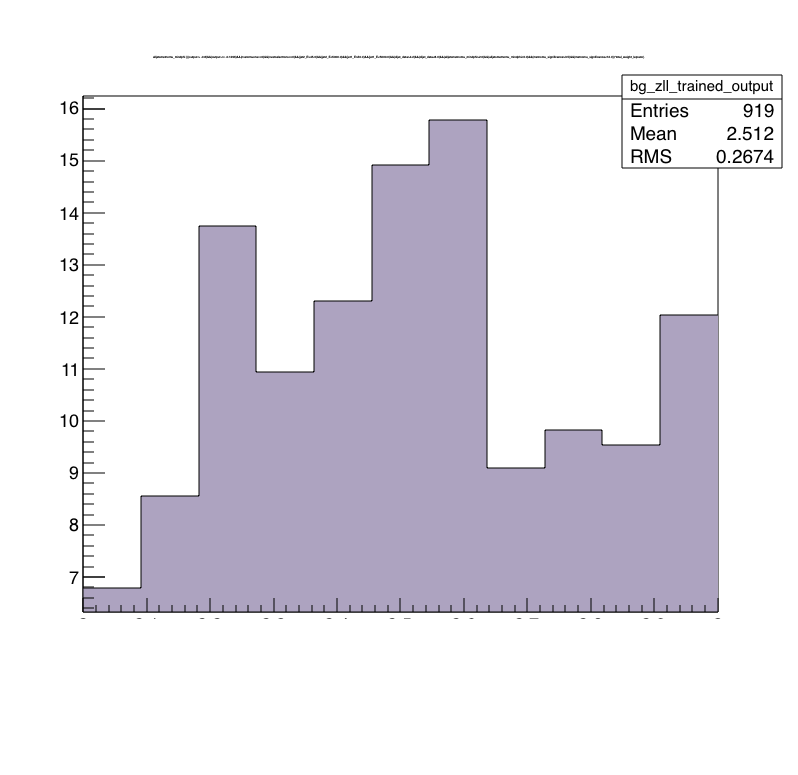
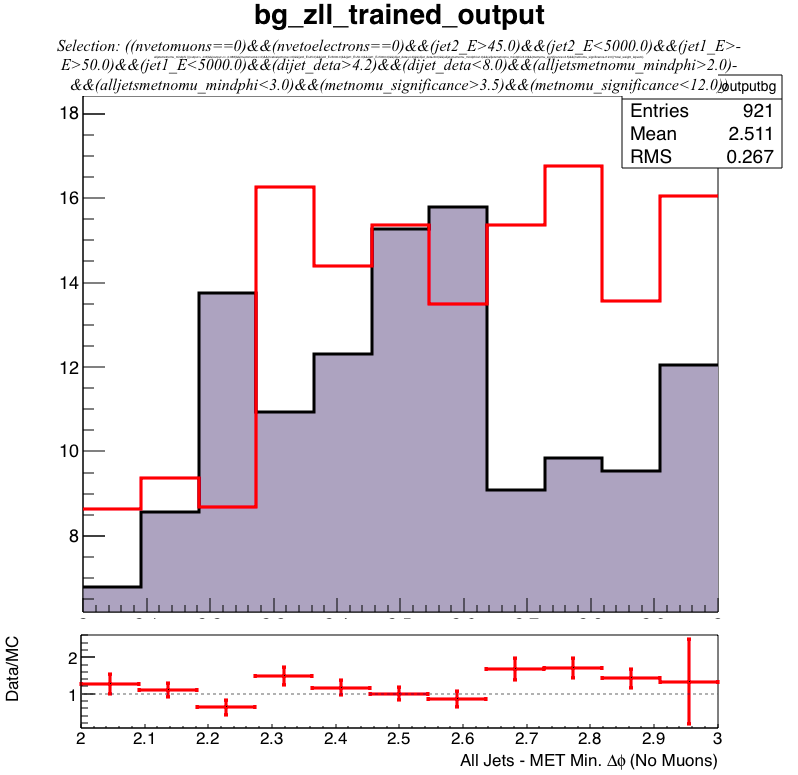
almost done but still have a problem with malloc

diff --git a/src/mva_analysis.cpp b/src/mva_analysis.cpp
@@ -10,10 +10,42 @@ TH1F* MVAAnalysis::plot_output(DataChain* combined_data)
 
 std::vector<double> MVAAnalysis::get_categories(TH1F* output_histo)
 {
-  double x_min = output_histo->GetBinCenter(output_histo->FindFirstBinAbove(0.0, 1));
-  double x_max = output_histo->GetBinCenter(output_histo->FindLastBinAbove(0.0, 1));
-  double x_arr[] = {-0.8, x_min * 0.6, 0, x_max * 0.6, 0.8};
+  int first_bin = output_histo->FindFirstBinAbove(0.0, 1);
+  int zero_bin = output_histo->FindBin(0.0);
+  int last_bin = output_histo->FindLastBinAbove(0.0, 1);
+  double total_integral = output_histo->Integral(0, output_histo->GetNbinsX() + 1);
 
+  double tmp_integral_bg;
+  double tmp_integral_sig;
+  int bg_bin;
+  int sig_bin;
+  //bg
+  for (int i = zero_bin; i > first_bin; i--)
+  	{
+    tmp_integral_bg = output_histo->Integral(first_bin, i);
+    bg_bin = i;
+    if ((tmp_integral_bg / total_integral) < 0.1)
+    	{
+    		break;
+    	}
+  	}
+  std::cout << "bg" << bg_bin << std::endl;
+  //sig
+  for (int i = zero_bin; i < last_bin; i++)
+  {
+    tmp_integral_sig = output_histo->Integral(i, last_bin);
+    sig_bin = i;
+    if ((tmp_integral_bg / total_integral) < 0.1)
+    {
+      break;
+    }
+  }
+  std::cout << "sig" << sig_bin << std::endl;
+	 double bg_up_lim = output_histo->GetBinCenter(bg_bin);
+  double sig_low_lim = output_histo->GetBinCenter(sig_bin);
+  double x_arr[] = {-0.8, bg_up_lim, 0, sig_low_lim, 0.8};
+  std::cout << "bg_xmax" << bg_up_lim << std::endl;
+  std::cout << "sig_xmin" << sig_low_lim << std::endl;
   std::vector<double> categories (x_arr, x_arr + sizeof(x_arr) / sizeof(x_arr[0]));
 
   return categories;
@@ -32,20 +64,20 @@ std::vector<std::string> MVAAnalysis::get_category_strs(std::vector<double> cate
 	 return cat_strs_vector;
 }
 
-TH1F* MVAAnalysis::build_histo(DataChain* combined_output, std::string category, std::string final_cuts, Variable* variable)
+TH1F* MVAAnalysis::build_histo(DataChain* combined_output, std::string category, std::string final_cuts, Variable* variable, std::string histo_label)
 {
   std::string selection_str = final_cuts;
   std::cout << "final cuts made sel str::" << selection_str << std::endl;
   selection_str.insert(selection_str.find("(") + 1, category + "&&");
-
+  std::string hist_label = combined_output->extra_label + histo_label;
   std::cout << selection_str << std::endl;
-  std::string var_arg = variable->build_var_string((combined_output->extra_label).c_str(), true);
-  std::cout << "label:" << combined_output->extra_label << std::endl;
+  std::string var_arg = variable->build_var_string(hist_label.c_str(), true);
+  std::cout << "label:" << hist_label << std::endl;
   std::cout << var_arg << std::endl;
   combined_output->chain->Draw(var_arg.c_str(), selection_str.c_str(), "goff");
 
-  TH1F* histo = (TH1F*)gDirectory->Get((combined_output->extra_label).c_str());
-
+  TH1F* histo = (TH1F*)gDirectory->Get(hist_label.c_str());
+  std::cout << "hist:" << histo << std::endl;
   return histo;
 }
 
@@ -56,8 +88,8 @@ TH1F* MVAAnalysis::draw_signal(DataChain* combined_output, std::string category,
   combined_output->chain->SetLineWidth(3);
   combined_output->chain->SetFillColor(0);
 
-  TH1F* histo = build_histo(combined_output, category, final_cuts, variable);
-  std::cout << "sighisto" << histo << std::endl;
+  TH1F* histo = build_histo(combined_output, category, final_cuts, variable, "signal");
+  std::cout << "sighist" << histo << std::endl;
   return histo;
 }
 
@@ -66,15 +98,24 @@ TH1F* MVAAnalysis::draw_background(DataChain* combined_output, std::string categ
   combined_output->chain->SetLineColor(1);
   combined_output->chain->SetFillColor(40);
   std::cout << "styled" << std::endl;
-  TH1F* hist = build_histo(combined_output, category, final_cuts, variable);
-  std::cout << "bghisto" << hist << std::endl;
+  TH1F* hist = build_histo(combined_output, category, final_cuts, variable, "bg");
+  std::cout << "bg histo num entries:" << hist->GetEntries() << std::endl;
   return hist;
+}
+
+void MVAAnalysis::style_histo(TH1F* histo)
+{
+	 histo->GetYaxis()->SetTitle("Events");
+	 histo->GetYaxis()->SetLabelSize(0.035);
+	 histo->GetYaxis()->SetTitleOffset(1.55);
+	 histo->GetXaxis()->SetLabelSize(0);
+	 histo->SetTitle("");
 }
 
 void MVAAnalysis::draw_histo(DataChain* combined_output, std::string final_cuts, Variable* variable)
 {
 	 std::vector<std::string> category_strs = get_category_strs(get_categories(plot_output(combined_output)));
-	 std::cout << "final cuts:" << final_cuts << std::endl;
+
   TLegend* legend = new TLegend(0.0, 0.5, 0.0, 0.88);
   TCanvas* c1     = new TCanvas("c1", variable->name_styled, 800, 800);
   TPad* p1        = new TPad("p1", "p1", 0.0, 0.95, 1.0, 1.0);
@@ -86,27 +127,30 @@ void MVAAnalysis::draw_histo(DataChain* combined_output, std::string final_cuts,
   p2->SetLeftMargin(0.105);
   p3->SetBottomMargin(0.3);
   p3->SetLeftMargin(0.102);
-
   p1->Draw();
   p2->Draw();
   p3->Draw();
-  legend->Draw();
   p2->cd();
-  std::cout << "setup plot well" << std::endl;
-  //TH1F* very_sig = draw_signal(combined_output, category_strs[3], final_cuts, variable);
+
+  TH1F* very_sig = draw_signal(combined_output, category_strs[3], final_cuts, variable);
   TH1F* very_bg   = draw_background(combined_output, category_strs[0], final_cuts, variable);
-  std::cout << "made histograms" << std::endl;
-  //legend->AddEntry(very_sig, category_strs[3].c_str(), "f");
-  //legend->AddEntry(very_bg, category_strs[0].c_str(), "f");
-  std::cout << "drew legends" << std::endl;
+
+  legend->AddEntry(very_sig, "Signal (Top 10% of output)", "f");
+  legend->AddEntry(very_bg, "Background (Bottom 10% of output)", "f");
+  HistoPlot::style_legend(legend);
+  legend->Draw();
+
   very_bg->Draw();
-  //very_sig->Draw();
-  std::cout << "drew histograms" << std::endl;/*
+  very_sig->Draw("SAME");
+  very_sig->SetStats(kFALSE);
+  very_bg->SetStats(kFALSE);
   TH1F* plot_histos[2] = {very_sig, very_bg};
-  very_bg->SetMaximum(HistoPlot::get_histo_y_max(HistoPlot::get_max_histo(plot_histos))*1.1);
-  std::cout << "maximum set" << std::endl;
+
+  TH1F* max_histo = HistoPlot::get_max_histo(plot_histos);
+
+  very_bg->SetMaximum(HistoPlot::get_histo_y_max(max_histo)*1.1);
+
   HistoPlot::draw_subtitle(variable, NULL, true, combined_output, final_cuts);
-  std::cout << "draw subtitle" << std::endl;
 
   p3->cd();
   TH1F* data_bg_ratio_histo = HistoPlot::data_to_bg_ratio_histo(plot_histos[0], plot_histos[1]);
@@ -114,7 +158,7 @@ void MVAAnalysis::draw_histo(DataChain* combined_output, std::string final_cuts,
   HistoPlot::style_ratio_histo(data_bg_ratio_histo, variable->name_styled);
   HistoPlot::draw_yline_on_plot(variable, true, 1.0);
   p1->cd();
-  HistoPlot::draw_title(combined_output->legend);*/
+  HistoPlot::draw_title((combined_output->extra_label).c_str());
 
   c1->SaveAs("output_test.png");
   c1->Close();

diff --git a/include/mva_analysis.h b/include/mva_analysis.h
@@ -13,11 +13,13 @@ class MVAAnalysis
 
   static std::vector<std::string> get_category_strs(std::vector<double> categories);
 
-  static TH1F* build_histo(DataChain* combined_output, std::string category, std::string final_cuts, Variable* variable);
+  static TH1F* build_histo(DataChain* combined_output, std::string category, std::string final_cuts, Variable* variable, std::string histo_label);
 
   static TH1F* draw_signal(DataChain* combined_output, std::string category, std::string final_cuts, Variable* variable);
 
   static TH1F* draw_background(DataChain* combined_output, std::string category, std::string final_cuts, Variable* variable);
+
+  static void style_histo(TH1F* histo);
 
   static void draw_histo(DataChain* combined_output, std::string final_cuts, Variable* variable);
 

diff --git a/src/histo_plot.cpp b/src/histo_plot.cpp
@@ -224,7 +224,7 @@ TH1F* HistoPlot::get_max_histo(TH1F** plot_histos)
   double plot_max = 0.0;
   TH1F* histo_max = NULL;
 
-  for (int i = 1; i < 3; i++)
+  for (int i = 0; i < 2; i++)
   {
     double y_max = get_histo_y_max(plot_histos[i]);
     if (y_max > plot_max)
